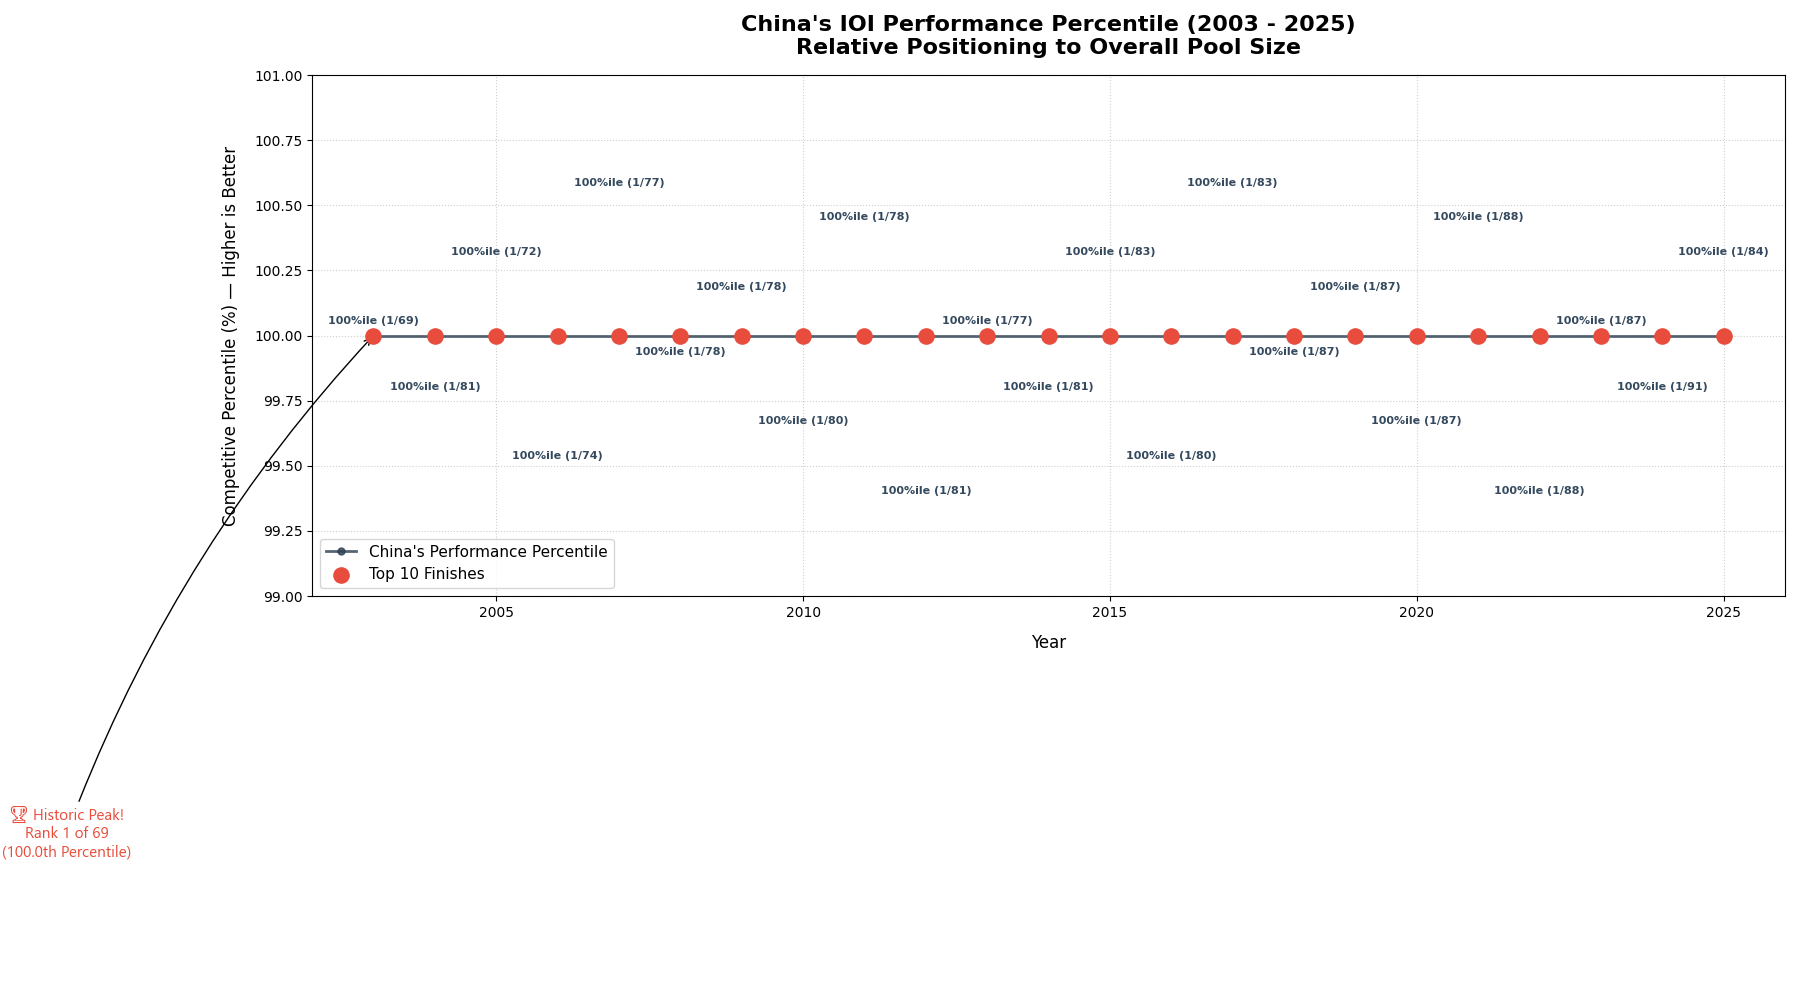
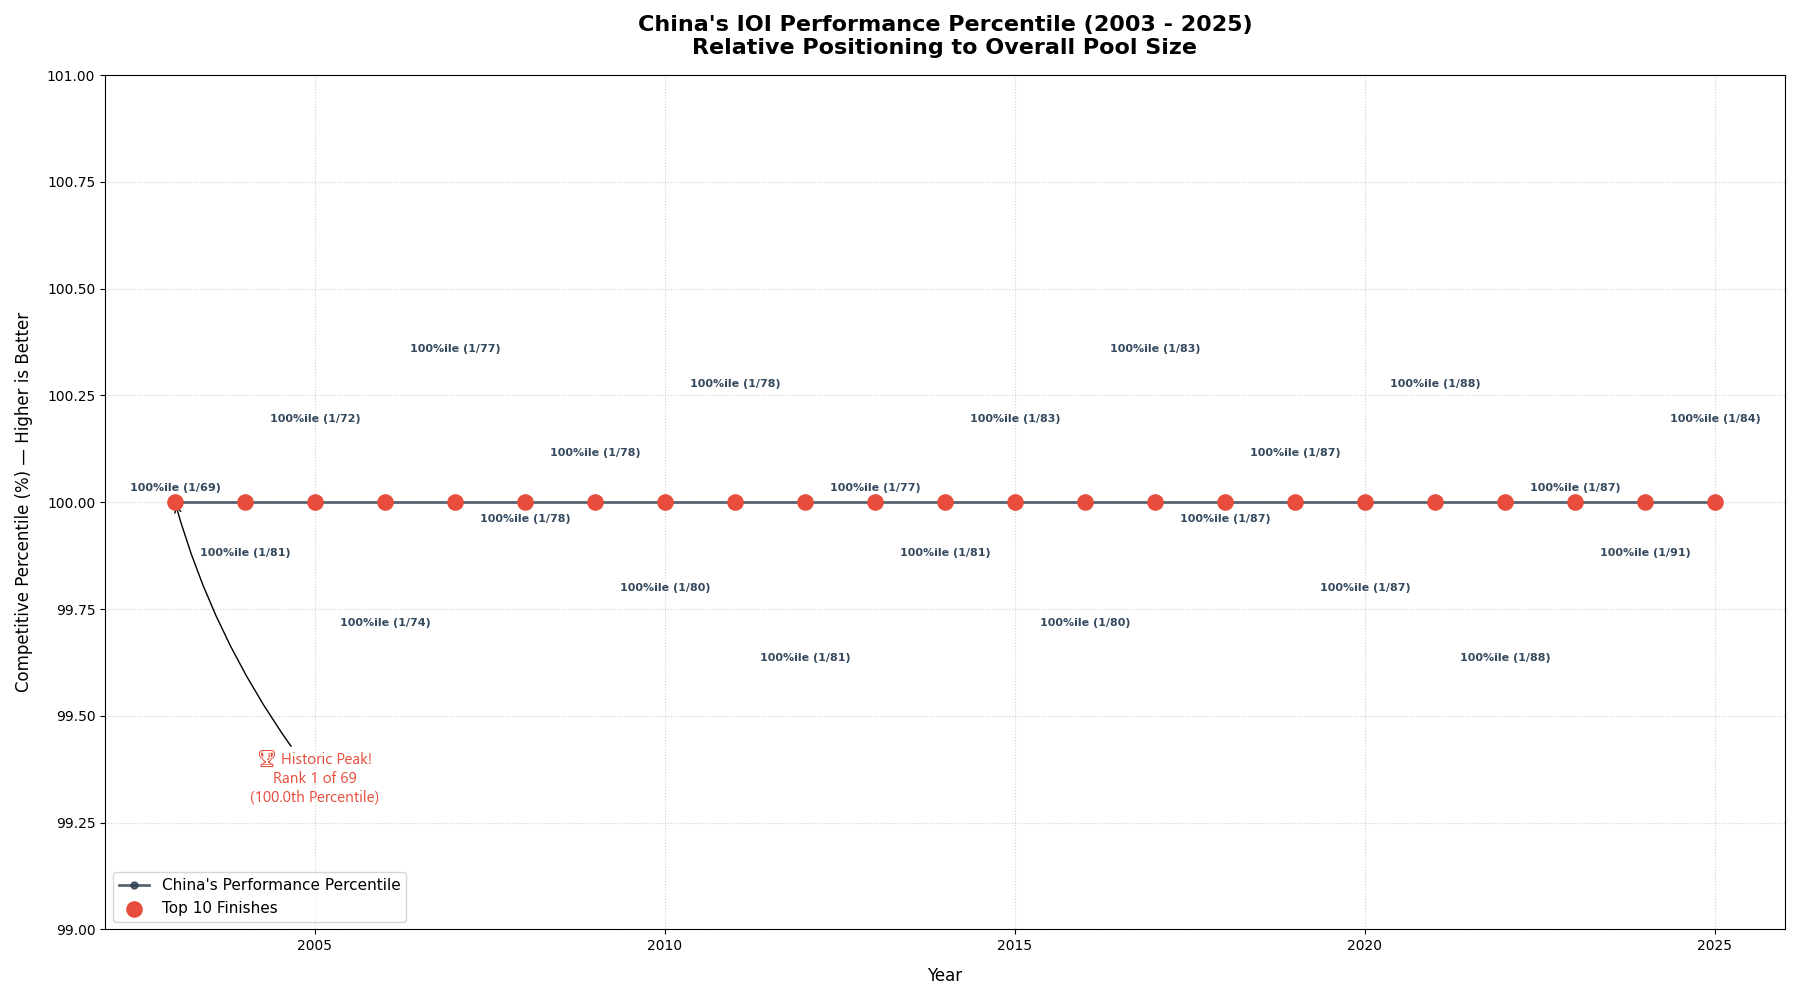
plots_fix

diff --git a/china_ioi_percentile.py b/china_ioi_percentile.py
@@ -99,7 +99,7 @@ best_year = df.loc[df["Percentile"].idxmax()]
 plt.annotate(
     f"🏆 Historic Peak!\nRank {int(best_year['Rank'])} of {int(best_year['Total_Countries'])}\n({best_year['Percentile']:.1f}th Percentile)",
     xy=(best_year["Year"], best_year["Percentile"]),
-    xytext=(best_year["Year"] - 5, best_year["Percentile"] - 2),
+    xytext=(best_year["Year"] + 2, best_year["Percentile"] - 0.7),
     arrowprops=dict(
         facecolor="#e74c3c", arrowstyle="->", connectionstyle="arc3,rad=-0.1"
     ),
